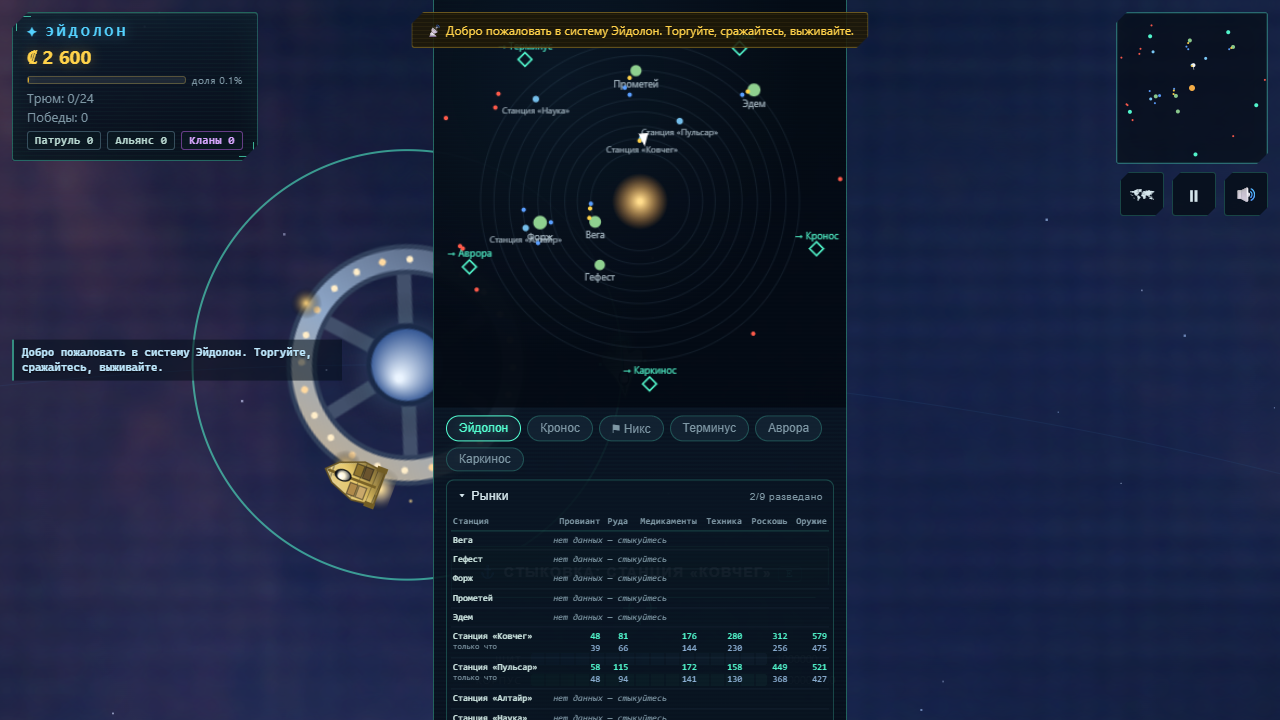
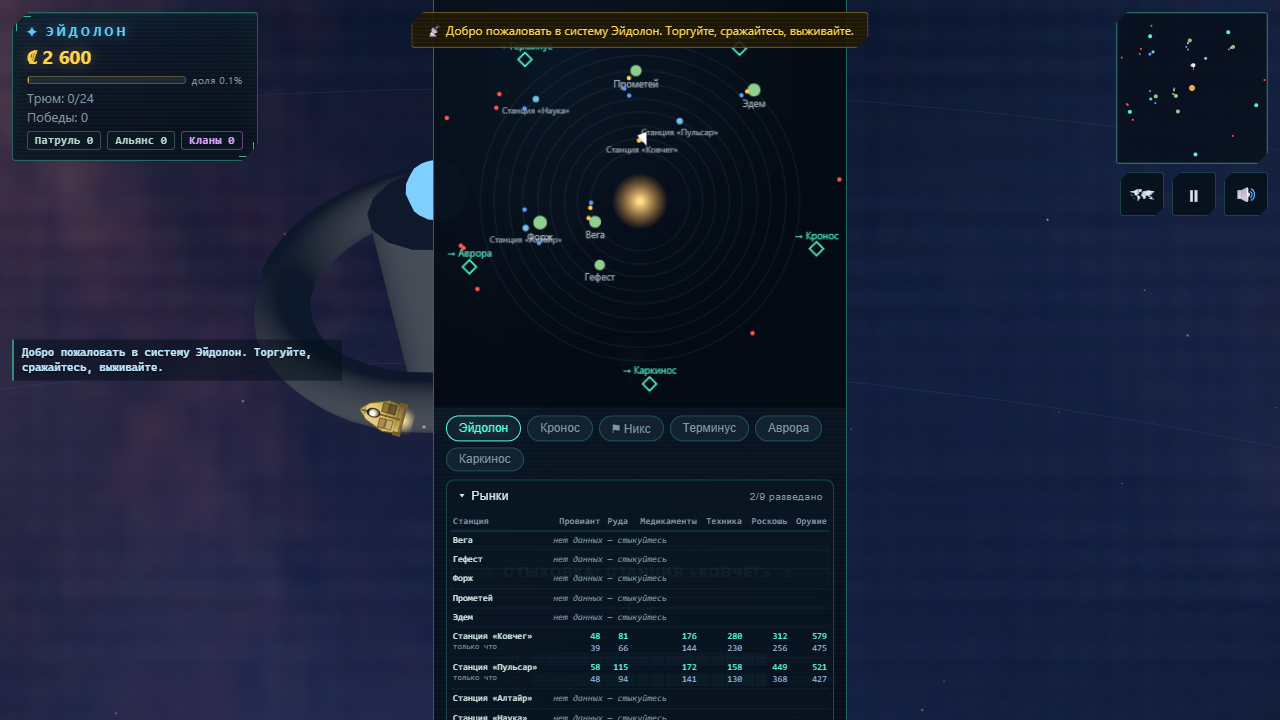
Этап 12d: переключатель рендера, автооткат, ленивый three — этап 12 закрыт
- Настройка render auto/2d/3d в game.settings (localStorage, вне SaveGame — версия сейва не менялась); валидация при загрузке/записи.
- Дефолт auto = 3D при WebGL2 (пробный контекст без three). Панель «⚙ Настройки» → «Графика»: сегменты Авто/2D/3D, применение живьём через подписку Game на onSettingsChange.
- webglcontextlost → preventDefault, защёлка glFailed до перезагрузки, откат в 2D, пояснение в тикере новостей.
- three → dynamic import ./gl: главный чанк 1002→446 КБ, gl-*.js (551 КБ) грузится только при 3D; async enable3d с гейтом disposed и повторной сверкой режима после await.
- verify: проход 1 зафиксирован в 2D (addInitScript), проход 2: render:3d → перезагрузка → #gl-canvas → readPixels непустоты + скриншот 04-gameplay-3d.
- skin: 18 флагов (+живое переключение из настроек, откат по contextlost, persist 2D, авто-старт 3D, three вне главного чанка) — 18/18 на реальном GPU.

diff --git a/src/game/game.ts b/src/game/game.ts
@@ -16,7 +16,8 @@ import * as econ from "./economy";
 import * as fleet from "./fleet";
 import * as missions from "./missions";
 import { renderFrame, renderGlFrame, paletteTex } from "./render";
-import { Renderer3D } from "./gl";
+import type { Renderer3D } from "./gl"; // 12d: только тип — three уезжает в async-чанк (dynamic import)
+import { loadSettings, onSettingsChange, type RenderPref } from "./settings";
 import { GameLoop } from "./engine";
 import { Input } from "./input";
 import { perf } from "./perf";
@@ -294,6 +295,10 @@ export class Game {
     window.addEventListener("resize", this.onResizeBound);
     this.exposeApi();
     this.pushStatic();
+
+    // 12d: настройка render (localStorage, вне сейва) — применяется на старте и живьём из панели
+    this.unsubRender = onSettingsChange((s) => this.applyRender(s.render));
+    this.applyRender(loadSettings().render);
   }
 
   private onResizeBound = () => this.onResize();
@@ -2655,28 +2660,76 @@ export class Game {
   camSy = 0; // public: render.ts
 
   /* ================================================================== */
-  /* Render backends (Этап 12a)                                          */
+  /* Render backends (Этап 12a/12d)                                      */
   /* ================================================================== */
 
-  /** "2d" — Canvas2D (по умолчанию), "3d" — WebGL-«шуба» three.js под той же симуляцией. */
+  /** "2d" — Canvas2D, "3d" — WebGL-«шуба» three.js под той же симуляцией (дефолт — из settings). */
   renderMode: "2d" | "3d" = "2d";
   private gl3d: Renderer3D | null = null;
   private glCanvas: HTMLCanvasElement | null = null;
   private bgCanvas: HTMLCanvasElement | null = null;
   private bgCtx: CanvasRenderingContext2D | null = null;
+  // 12d: three тянется лениво (dynamic import) — в 2D-режиме асинхронный чанк не грузится;
+  // glFailed — контекст WebGL терялся в этой сессии, больше не пробуем (до перезагрузки).
+  private glMod: typeof import("./gl") | null = null;
+  private glLoading: Promise<boolean> | null = null;
+  private glFailed = false;
+  private unsubRender: (() => void) | null = null;
 
   private render(): void {
     if (this.renderMode === "3d" && this.gl3d && this.bgCtx) renderGlFrame(this, this.gl3d, this.bgCtx);
     else renderFrame(this);
   }
 
+  /** Cheap WebGL2 capability probe without loading three (тот же тест, что «auto» в настройках). */
+  static hasWebGL2(): boolean {
+    try {
+      const probe = document.createElement("canvas");
+      return probe.getContext("webgl2") !== null;
+    } catch {
+      return false;
+    }
+  }
+
+  /** Настройка → конкретный режим; «auto» = 3d при WebGL2 (12d: дефолт — 3d на GPU-браузерах). */
+  private resolveRender(pref: RenderPref): "2d" | "3d" {
+    if (pref === "2d") return "2d";
+    if (pref === "3d") return "3d";
+    return Game.hasWebGL2() && !this.glFailed ? "3d" : "2d";
+  }
+
+  /** Загрузить модуль gl (three) одним обещанием; false при сетевой ошибке чанка. */
+  private loadGl(): Promise<boolean> {
+    if (this.glMod) return Promise.resolve(true);
+    if (!this.glLoading) {
+      this.glLoading = import("./gl").then(
+        (m) => { this.glMod = m; return true; },
+        () => false,
+      );
+    }
+    return this.glLoading;
+  }
+
+  /** Реакция на настройку render (boot + onSettingsChange): применить режим немедленно. */
+  private applyRender(pref: RenderPref): void {
+    if (this.resolveRender(pref) === "3d") void this.enable3d();
+    else this.disable3d();
+  }
+
   /**
    * Включить WebGL-слой. Под канвас ввода вставляются ещё два холста: нижний — 2D-фон,
    * средний — GL-мир; весь мышиный ввод остаётся на #game-canvas (он остался верхним).
-   * Возвращает false, если WebGL недоступен (тогда игра продолжает в 2D).
+   * 12d: ждёт dynamic-импорт three; false — если WebGL недоступен/чанк не загрузился
+   * (игра продолжает в 2D). Потеря GL-контекста → автооткат в 2D (webglcontextlost).
    */
-  enable3d(): boolean {
+  async enable3d(): Promise<boolean> {
     if (this.renderMode === "3d") return true;
+    if (this.glFailed || !(await this.loadGl())) return false;
+    if (this.disposed) return false; // игра умерла, пока грузился чанк
+    // после await параллельный enable3d мог всё сделать — перечитываем поле мимо сужения TS
+    if ((this.renderMode as "2d" | "3d") === "3d") return true; // пока грузили, включил другой вызов
+    const mod = this.glMod;
+    if (!mod) return false;
     if (!this.gl3d) {
       try {
         const css = "position:absolute;inset:0;width:100%;height:100%;pointer-events:none";
@@ -2690,7 +2743,8 @@ export class Game {
         glc.style.cssText = css;
         this.bgCanvas = bg;
         this.bgCtx = bgCtx;
-        this.gl3d = new Renderer3D(glc);
+        this.gl3d = new mod.Renderer3D(glc);
+        glc.addEventListener("webglcontextlost", this.onGlContextLost);
         this.glCanvas = glc;
         const parent = this.canvas.parentElement ?? document.body;
         parent.insertBefore(bg, this.canvas);
@@ -2705,8 +2759,18 @@ export class Game {
     return true;
   }
 
+  /** Драйвер/вкладка потеряли GL-контекст: preventDefault даёт шанс на restore, но мы
+   * просто откатываемся в 2D и до перезагрузки 3d больше не пробуем (глочить цикл падений). */
+  private onGlContextLost = (e: Event): void => {
+    e.preventDefault();
+    this.glFailed = true;
+    this.disable3d();
+    this.setNews("Контекст WebGL потерян — включён режим 2D. Перезагрузите страницу для повтора 3D.");
+  };
+
   disable3d(): void {
     this.renderMode = "2d";
+    if (this.glCanvas) this.glCanvas.removeEventListener("webglcontextlost", this.onGlContextLost);
     this.gl3d?.dispose();
     this.gl3d = null;
     this.glCanvas?.remove();
@@ -3248,7 +3312,8 @@ export class Game {
       shots: this.shotsFired,
       hasFocus: document.hasFocus(),
     });
-    // 12a: WebGL-«шуба» — включение режима, GL-статистика и шов screenToWorld для probes
+    // 12a/12d: WebGL-«шуба» — включение режима (Promise: ждёт dynamic-импорт three),
+    // GL-статистика и шов screenToWorld для probes
     (window as unknown as Record<string, unknown>).__gl = {
       enable: () => this.enable3d(),
       disable: () => this.disable3d(),
@@ -3302,6 +3367,8 @@ export class Game {
     this.disposed = true;
     this.loop.stop();
     window.removeEventListener("resize", this.onResizeBound);
+    this.unsubRender?.();
+    this.unsubRender = null;
     this.input.dispose();
     this.audio.dispose();
     this.disable3d(); // снять GL-слои «шубы» (12a) вместе с игрой

diff --git a/src/ui/SettingsPanel.tsx b/src/ui/SettingsPanel.tsx
@@ -1,17 +1,24 @@
 import { useState } from 'react'
-import { type GameSettings, loadSettings, updateSettings } from '@/game/settings'
+import { type GameSettings, type RenderPref, loadSettings, updateSettings } from '@/game/settings'
 
 /**
- * Sound settings: three live volume sliders backed by the settings store
- * (AudioSystem reacts via onSettingsChange, changes are instant and persisted).
+ * Player settings: three live volume sliders + render-backend picker (Этап 12d), backed
+ * by the settings store (AudioSystem/Game subscribe via onSettingsChange — instant, persisted).
  * Aim needs no slider — the 2D cockpit aims absolutely (cursor = aim point).
  */
+const RENDER_OPTS: { v: RenderPref; label: string }[] = [
+  { v: 'auto', label: 'Авто' },
+  { v: '2d', label: '2D' },
+  { v: '3d', label: '3D' },
+]
+
 export function SettingsPanel({ onClose }: { onClose: () => void }) {
   const [s, setS] = useState<GameSettings>(() => loadSettings())
-  const set = (k: keyof GameSettings) => (e: React.ChangeEvent<HTMLInputElement>) => {
+  type NumKey = 'master' | 'music' | 'sfx'
+  const set = (k: NumKey) => (e: React.ChangeEvent<HTMLInputElement>) => {
     setS(updateSettings({ [k]: Number(e.target.value) / 100 } as Partial<GameSettings>))
   }
-  const row = (label: string, k: keyof GameSettings) => (
+  const row = (label: string, k: NumKey) => (
     <label className="set-row">
       <span className="set-label">{label}</span>
       <input
@@ -32,6 +39,29 @@ export function SettingsPanel({ onClose }: { onClose: () => void }) {
       {row('Общая громкость', 'master')}
       {row('Музыка', 'music')}
       {row('Эффекты', 'sfx')}
+      <div className="set-title">ГРАФИКА</div>
+      <div className="set-row">
+        <span className="set-label">Рендер</span>
+        <div className="set-seg" role="radiogroup" aria-label="Рендер">
+          {RENDER_OPTS.map((o) => (
+            <button
+              key={o.v}
+              type="button"
+              role="radio"
+              aria-checked={s.render === o.v}
+              className={`set-seg-btn${s.render === o.v ? ' on' : ''}`}
+              onClick={() => setS(updateSettings({ render: o.v }))}
+            >
+              {o.label}
+            </button>
+          ))}
+        </div>
+        <span className="set-val" />
+      </div>
+      <div className="set-note">
+        Авто включает 3D при поддержке WebGL2. Смена применяется сразу; при потере
+        WebGL-контекста игра сама откатится в 2D.
+      </div>
       <div className="set-note">Прицел абсолютный — курсор и есть точка прицела, чувствительность не нужна.</div>
       <button className="btn btn-small" onClick={onClose}>Готово</button>
     </div>

diff --git a/src/game/settings.ts b/src/game/settings.ts
@@ -1,22 +1,32 @@
 /**
  * settings.ts — persisted player settings (localStorage `game.settings`).
- * Volumes are 0..1 linear. AudioSystem subscribes via onSettingsChange and applies
+ * Volumes are 0..1 linear; `render` (12d) is the render-backend preference —
+ * deliberately stored here, not in SaveGame, so save format never changes for it.
+ * AudioSystem subscribes via onSettingsChange and applies
  * them live; the UI mutates through updateSettings so every consumer stays in sync.
  * Defensive like save.ts: anything malformed on load falls back to defaults.
  */
+
+/** Настройка рендера (Этап 12d): живёт в settings (localStorage), НЕ в SaveGame. */
+export type RenderPref = "auto" | "2d" | "3d";
 
 export interface GameSettings {
   master: number;
   music: number;
   sfx: number;
+  render: RenderPref;
 }
 
 const SETTINGS_KEY = "game.settings";
 
-export const DEFAULT_SETTINGS: GameSettings = { master: 0.5, music: 0.8, sfx: 0.85 };
+export const DEFAULT_SETTINGS: GameSettings = { master: 0.5, music: 0.8, sfx: 0.85, render: "auto" };
 
 function vol(v: unknown, fb: number): number {
   return typeof v === "number" && Number.isFinite(v) ? Math.max(0, Math.min(1, v)) : fb;
+}
+
+function renderPref(v: unknown, fb: RenderPref): RenderPref {
+  return v === "auto" || v === "2d" || v === "3d" ? v : fb;
 }
 
 export function loadSettings(): GameSettings {
@@ -29,6 +39,7 @@ export function loadSettings(): GameSettings {
       master: vol(s.master, d.master),
       music: vol(s.music, d.music),
       sfx: vol(s.sfx, d.sfx),
+      render: renderPref(s.render, d.render),
     };
   } catch {
     return d;
@@ -58,6 +69,7 @@ export function updateSettings(patch: Partial<GameSettings>): GameSettings {
   s.master = clamp(s.master, DEFAULT_SETTINGS.master);
   s.music = clamp(s.music, DEFAULT_SETTINGS.music);
   s.sfx = clamp(s.sfx, DEFAULT_SETTINGS.sfx);
+  s.render = renderPref(s.render, DEFAULT_SETTINGS.render);
   saveSettings(s);
   for (const fn of listeners) fn(s);
   return s;

diff --git a/src/index.css b/src/index.css
@@ -1188,3 +1188,26 @@ kbd {
   background: var(--accent);
 }
 .set-note { font-size: 11px; color: var(--text-dim); line-height: 1.4; }
+
+/* render-backend picker (Этап 12d) — segmented control in the same console skin */
+.set-seg { display: flex; gap: 6px; }
+.set-seg-btn {
+  flex: 1;
+  padding: 5px 0;
+  font: inherit;
+  font-size: 12px;
+  letter-spacing: 0.08em;
+  color: var(--text-dim);
+  background: rgba(84, 255, 210, 0.06);
+  border: 1px solid rgba(84, 255, 210, 0.22);
+  border-radius: 2px;
+  cursor: pointer;
+}
+.set-seg-btn:hover { color: var(--accent); border-color: rgba(84, 255, 210, 0.5); }
+.set-seg-btn.on {
+  color: #06121e;
+  background: var(--accent);
+  border-color: var(--accent);
+  box-shadow: 0 0 10px rgba(84, 255, 210, 0.35);
+  font-weight: 700;
+}
